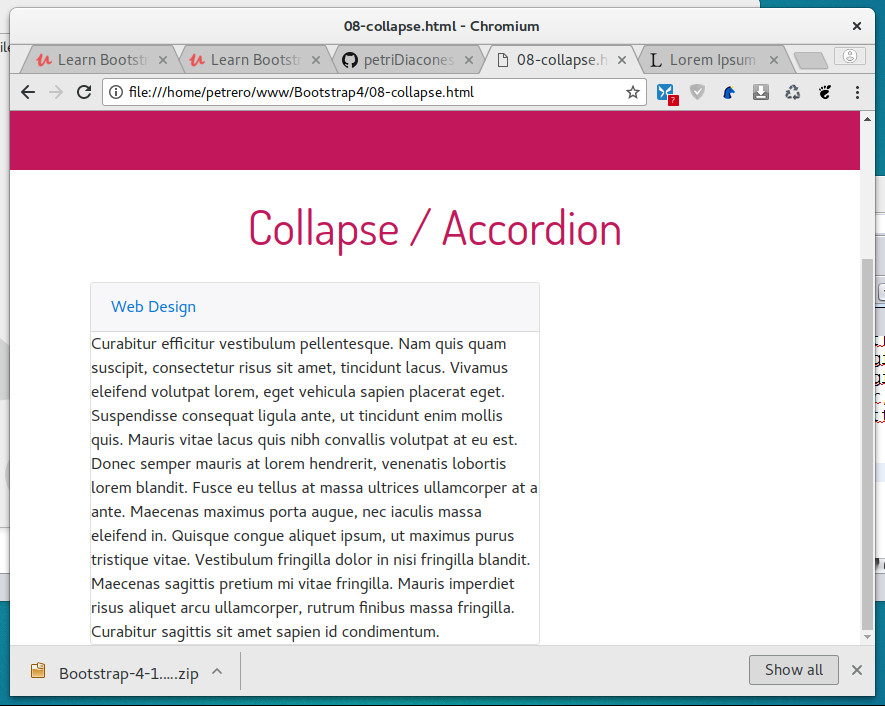
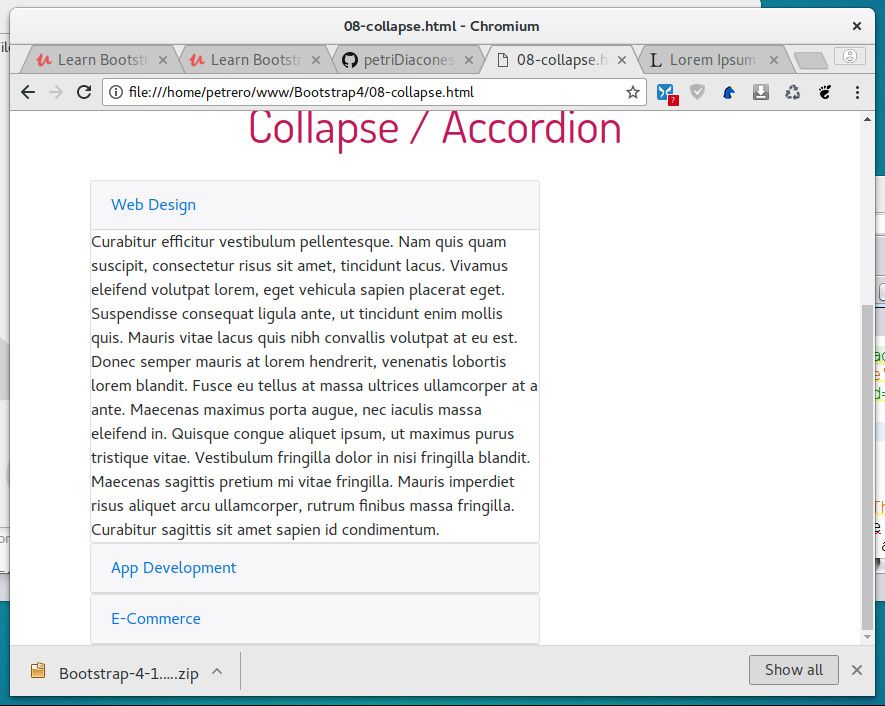
Another two accordion tabs

diff --git a/08-collapse.html b/08-collapse.html
@@ -35,7 +35,7 @@
                 </a>
               </div>
               <div id="service1" class="collapse show" 
-                role="tabpanel" aria-labelledby="heading1">
+                role="tabpanel" aria-labelledby="headingOne">
                   Curabitur efficitur vestibulum pellentesque. 
                   Nam quis quam suscipit, consectetur risus sit amet, 
                   tincidunt lacus. Vivamus eleifend volutpat lorem, 
@@ -52,6 +52,46 @@
                   imperdiet risus aliquet arcu ullamcorper, rutrum 
                   finibus massa fringilla. Curabitur sagittis sit amet 
                   sapien id condimentum.
+              </div>
+            </div><!-- card -->
+            <div class="card">
+              <div class="card-header" role="tab" id="heading2">
+                <a href="#service2" data-toggle="collapse" 
+                   data-parent="#accordion" aria-expanded="true" 
+                   aria-controls="service2">
+                    App Development
+                </a>
+              </div>
+              <div id="service2" class="collapse show" 
+                role="tabpanel" aria-labelledby="headingTwo">
+                  Nam quis lectus quis dui finibus congue in id diam. 
+                  Morbi fringilla nisl sed ex malesuada, at mattis lorem molestie.
+                  Phasellus tincidunt mauris tempor tortor posuere, a lacinia magna 
+                  feugiat. Pellentesque malesuada lectus nec libero cursus suscipit. 
+                  Cras vitae tempor ipsum. Sed nec nisl nulla. Aliquam condimentum 
+                  auctor lorem id mattis. Donec placerat finibus risus sit amet 
+                  ullamcorper. Ut non congue nisi. Suspendisse maximus sagittis pretium. 
+                  Phasellus euismod tristique nisi consequat condimentum.
+              </div>
+            </div><!-- card -->
+            <div class="card">
+              <div class="card-header" role="tab" id="heading3">
+                <a href="#service3" data-toggle="collapse" 
+                   data-parent="#accordion" aria-expanded="true" 
+                   aria-controls="service3">
+                    E-Commerce
+                </a>
+              </div>
+              <div id="service3" class="collapse show" 
+                role="tabpanel" aria-labelledby="headingThree">
+                  Nam quis lectus quis dui finibus congue in id diam. 
+                  Morbi fringilla nisl sed ex malesuada, at mattis lorem molestie.
+                  Phasellus tincidunt mauris tempor tortor posuere, a lacinia magna 
+                  feugiat. Pellentesque malesuada lectus nec libero cursus suscipit. 
+                  Cras vitae tempor ipsum. Sed nec nisl nulla. Aliquam condimentum 
+                  auctor lorem id mattis. Donec placerat finibus risus sit amet 
+                  ullamcorper. Ut non congue nisi. Suspendisse maximus sagittis pretium. 
+                  Phasellus euismod tristique nisi consequat condimentum.
               </div>
             </div><!-- card -->
           </div>
